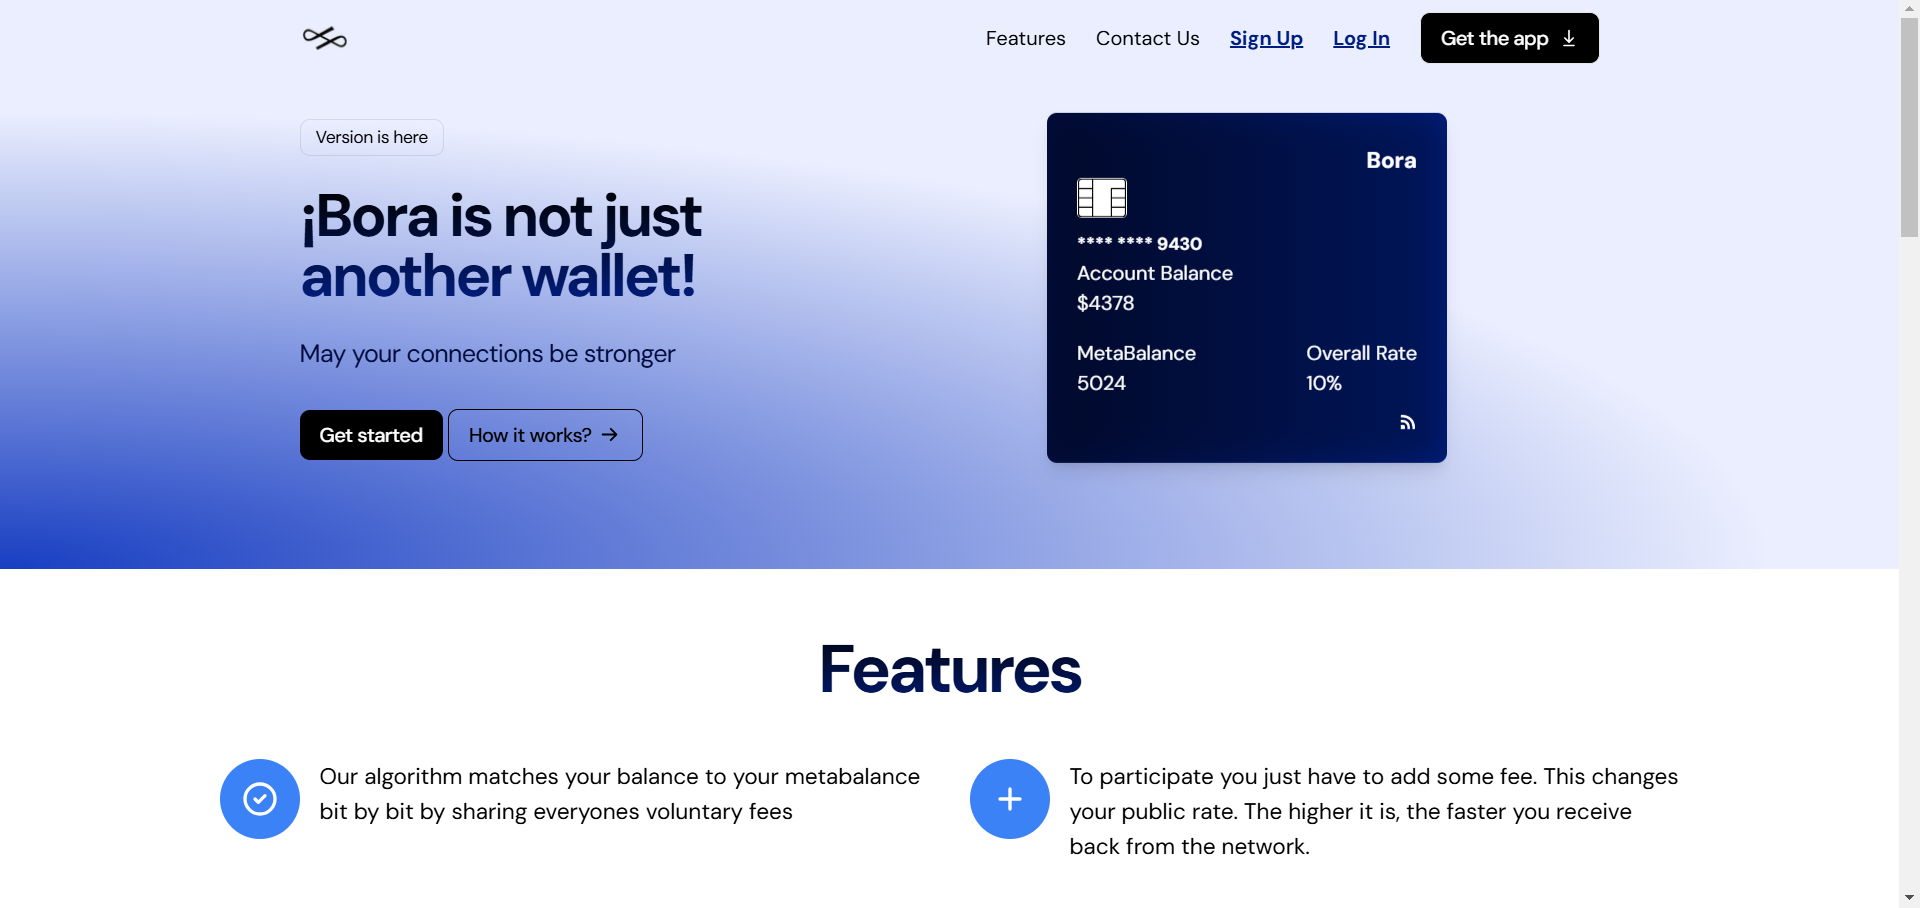
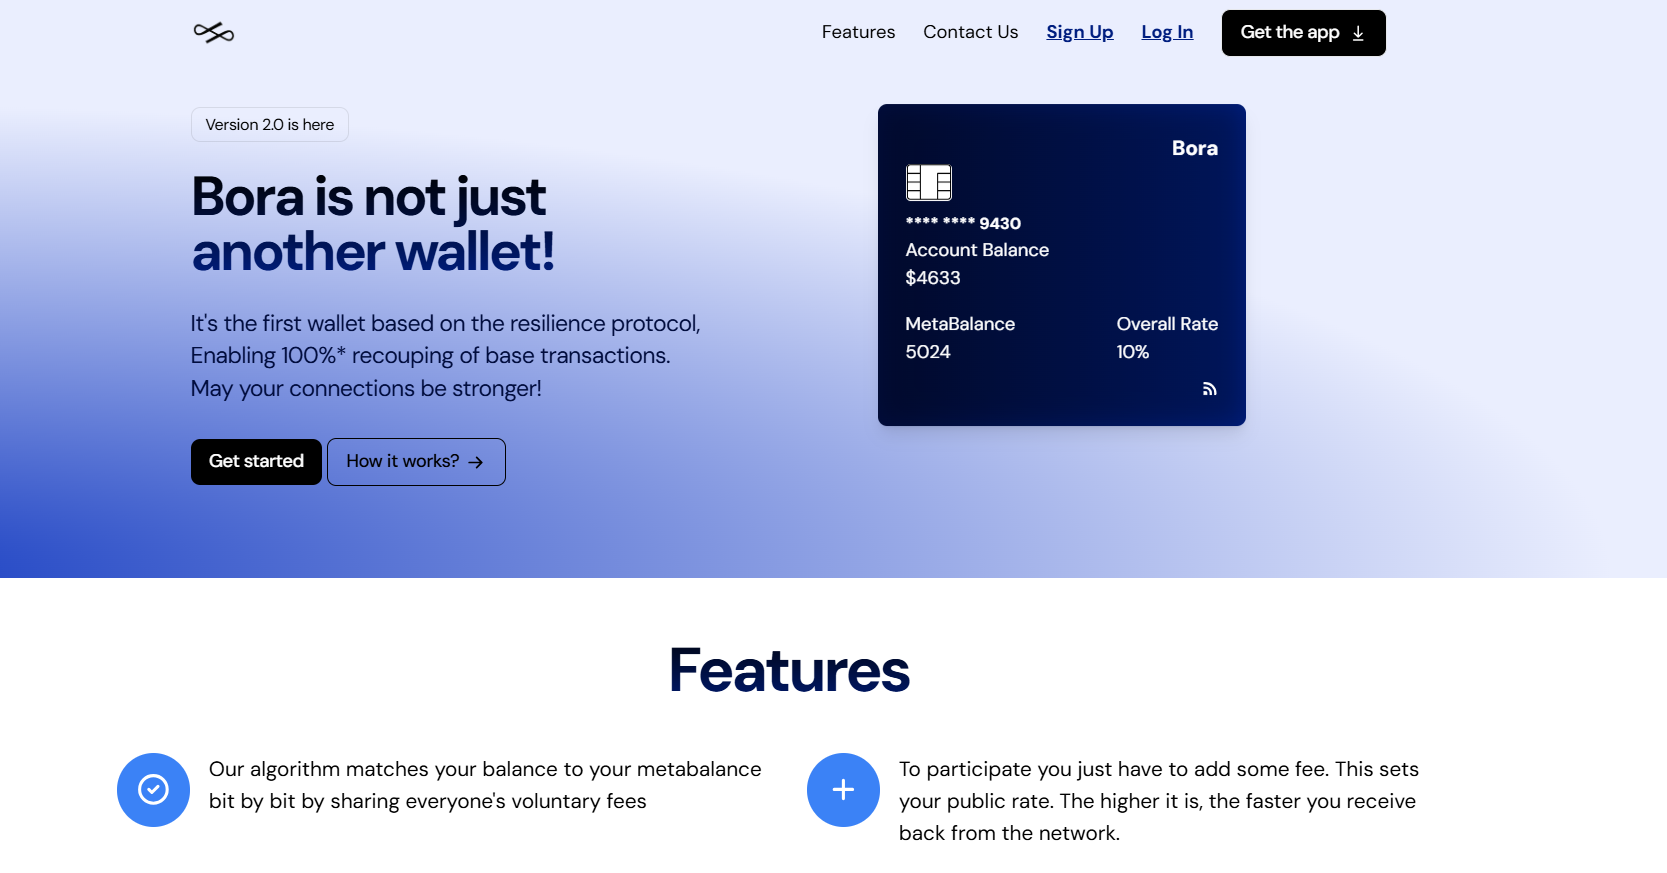
Fix texts

diff --git a/src/app/components/ContactUs.tsx b/src/app/components/ContactUs.tsx
@@ -89,45 +89,44 @@ const FormHelp: React.FC<FormHelpProps> = ({ id }) => {
         <div className="section-heading text-center">
           <h2 className="section-title mt-5 font-bold">Contact Us</h2>
         </div>
-        
+
         {/* Responsive Contact and Form section */}
         <div className="flex flex-col md:flex-row items-start mt-10 gap-10">
           {/* Contact Info */}
           <div className="md:w-1/2 p-4 flex flex-col items-start">
             <h2 className="section-subtitle text-[24px] md:text-[30px] font-semibold">
-             We’re Here to Help
+            We’re Here to Help
             </h2>
             <p className="section-description text-gray-700 text-base md:text-lg mt-4 text-left">
-             Have questions about our platform, integrations, or anything else? Our friendly team is here to answer all your questions.
-             Reach out, and we’ll get back to you as soon as possible!
+            Have questions about our platform? Our team is here to answer all your questions.
+            Reach out and we'll get back to you as soon as possible.
             </p>
 
           <div className="grid grid-cols-1 md:grid-cols-2 gap-4 mt-6">
            {/* Column 1: Email */}
           {/* <div className="flex items-center">
-           <FontAwesomeIcon icon={faEnvelope} className="mr-2 text-blue-600" />
-           <span className="text-gray-700 font-medium">resilenciabora@gmail.com</span>
+          <FontAwesomeIcon icon={faEnvelope} className="mr-2 text-blue-600" />
+          <span className="text-gray-700 font-medium">resilenciabora@gmail.com</span>
           </div> */}
 
            {/* Column 2: Country */}
           {/* <div className="flex items-center">
-           <FontAwesomeIcon icon={faGlobe} className="mr-2 text-blue-600" />
-           <span className="text-gray-700 font-medium">Colombia</span>
+          <FontAwesomeIcon icon={faGlobe} className="mr-2 text-blue-600" />
+          <span className="text-gray-700 font-medium">Colombia</span>
           </div> */}
 
            {/* Column 1: Phone */}
           {/* <div className="flex items-center">
-           <FontAwesomeIcon icon={faPhone} className="mr-2 text-blue-600" />
-           <span className="text-gray-700 font-medium">+57 123 456 7890</span>
+          <FontAwesomeIcon icon={faPhone} className="mr-2 text-blue-600" />
+          <span className="text-gray-700 font-medium">+57 123 456 7890</span>
           </div> */}
 
            {/* Column 2: Opening hours */}
           {/* <div className="flex items-center">
-           <FontAwesomeIcon icon={faClock} className="mr-2 text-blue-600" />
-           <span className="text-gray-700 font-medium">Mon-Fri: 9am - 6pm</span>
+          <FontAwesomeIcon icon={faClock} className="mr-2 text-blue-600" />
+          <span className="text-gray-700 font-medium">Mon-Fri: 9am - 6pm</span>
           </div> */}
           </div>
-      
           </div>
 
           {/* Form */}

diff --git a/src/app/dashboard/page.tsx b/src/app/dashboard/page.tsx
@@ -1,8 +1,8 @@
 "use client";
 import React, { useEffect, useState } from 'react';
 import axios from 'axios';
-import { motion } from 'framer-motion'; 
-import Chip from '@/app/public/assets/chip-credit.svg'; 
+import { motion } from 'framer-motion';
+import Chip from '@/app/public/assets/chip-credit.svg';
 import Network from '@/app/public/assets/network.svg';
 import { Header } from '@/app/components/Header';
 import { Line } from 'react-chartjs-2';
@@ -59,21 +59,21 @@ export default function Dashboard() {
   const [showDepositModal, setShowDepositModal] = useState(false);
   const [showWithdrawModal, setShowWithdrawModal] = useState(false);
   const [showModal, setShowModal] = useState(false);
-  
+
   const [formData, setFormData] = useState({
     receiverAccountNumber: "",
     amount: "",
     feeRate: "",
   });
-  
+
   const [depositData, setDepositData] = useState({
     amount: "",
   });
-  
+
   const [withdrawData, setWithdrawData] = useState({
     amount: "",
   });
-  
+
   const [isSubmitting, setIsSubmitting] = useState(false);
 
   useEffect(() => {
@@ -85,7 +85,7 @@ export default function Dashboard() {
       setLoading(false);
     }
   }, []);
-  
+
   const fetchUserData = async (userId: string) => {
     try {
       const userResponse = await axios.get(`https://backend-bora.onrender.com/user/${userId}`);
@@ -120,8 +120,8 @@ export default function Dashboard() {
     } finally {
       setLoading(false);
     }
-  };  
-  
+  };
+
   const handleShowModal = (modal: string) => {
     switch (modal) {
       case "send":
@@ -194,7 +194,7 @@ export default function Dashboard() {
       toast.success("Transaction successful");
       handleCloseModal("send");
 
-      // Update data 
+      // Update data
       const userId = localStorage.getItem("userId");
       const senderResponse = await axios.get(`https://backend-bora.onrender.com/user/${userId}`, { withCredentials: true });
       setUserData(senderResponse.data.data);
@@ -251,7 +251,7 @@ export default function Dashboard() {
     }
   };
 
-  // Withdraw Money 
+  // Withdraw Money
   const handleWithdraw = async (e: React.FormEvent) => {
     e.preventDefault();
     setIsSubmitting(true);
@@ -638,9 +638,10 @@ export default function Dashboard() {
     </div>
   </div>
 )}
+
 {/* Withdraw Money Modal */}
 {showWithdrawModal && (
-       <div className="fixed inset-0 bg-black bg-opacity-50 flex items-center justify-center z-50">
+  <div className="fixed inset-0 bg-black bg-opacity-50 flex items-center justify-center z-50">
     <div className="bg-white p-8 rounded-xl shadow-xl w-full max-w-md">
       <h2 className="text-2xl font-semibold text-gray-800 mb-6 text-center">Withdraw Money</h2>
       <div className="space-y-4">
@@ -675,7 +676,7 @@ export default function Dashboard() {
     </div>
   </div>
 )}
-  </section>
+    </section>
     </>
   );
 }

diff --git a/src/app/components/Tutorial.tsx b/src/app/components/Tutorial.tsx
@@ -37,7 +37,7 @@ export const Tutorial: React.FC<TutorialProps> = ({ id }) => {
     <section id={id} className="bg-gradient-to-b from-white to-[#D2DCFF] py-10">
       <div className="container mx-auto px-4">
         <div className="section-heading text-center mb-8">
-          <h2 className="section-title font-bold">How it works?</h2>
+          <h2 className="section-title font-bold">How to use:</h2>
         </div>
         {/* Slider */}
         <div className="flex justify-center mb-8">
@@ -49,12 +49,13 @@ export const Tutorial: React.FC<TutorialProps> = ({ id }) => {
                     <Image 
                       src={item.src} 
                       alt={`Imagen ${index + 1}`} 
-                      width={500} 
-                      height={300} 
+                      width={900} // Adjusted width for better quality
+                      height={500} // Adjusted height for better quality
+                      quality={100} // Set maximum quality
                       className="w-full h-full rounded-xl" 
                     />
                   ) : (
-                    <div className="relative w-full" style={{ paddingTop: '56.25%' }}> {/* Proporción 16:9 */}
+                    <div className="relative w-full" style={{ paddingTop: '56.25%' }}>
                       <iframe 
                         src={item.src} 
                         title={`Video ${index + 1}`} 

diff --git a/src/app/components/Hero.tsx b/src/app/components/Hero.tsx
@@ -54,13 +54,16 @@ export const Hero = () => {
         <div className="md:flex md:items-start">
           <div className="md:w-[478px]">
             <div className="text-sm inline-flex border border-[#222]/10 px-3 py-1 rounded-lg tracking-tight">
-              Version is here
+              Version 2.0 is here
             </div>
             <h1 className="text-5xl font-bold tracking-tighter bg-gradient-to-b from-black to-[#001E80] text-transparent bg-clip-text mt-6">
-              ¡Bora is not just another wallet!
+              Bora is not just another wallet!
             </h1>
             <p className="text-xl text-[#010D3E] tracking-tight mt-6">
-              May your connections be stronger
+              It's the first wallet based on the resilience protocol,
+              Enabling 100%* recouping of base transactions.
+              <br />
+              May your connections be stronger!
             </p>
             <div className="flex gap-1 items-center mt-[30px]">
               <Link href="/signup">

diff --git a/src/app/components/Feature.tsx b/src/app/components/Feature.tsx
@@ -31,7 +31,7 @@ export const Feature: React.FC<FeatureProps> = ({ id }) => {
             </div>
             <p className="text-lg">
             Our algorithm matches your balance to your metabalance bit by
-            bit by sharing everyones voluntary fees
+            bit by sharing everyone's voluntary fees
             </p>
           </div>
           <div className="flex items-start">
@@ -52,8 +52,8 @@ export const Feature: React.FC<FeatureProps> = ({ id }) => {
               </svg>
             </div>
             <p className="text-lg">To participate you just have to add some fee.
-              This changes your public rate. The higher it is,
-              the faster you receive back from the network. 
+              This sets your public rate. The higher it is,
+              the faster you receive back from the network.
             </p>
           </div>
         </div>

diff --git a/src/app/components/SignUpFree.tsx b/src/app/components/SignUpFree.tsx
@@ -27,10 +27,11 @@ export const SignUpFree = () => {
     >
       <div className="container">
         <div className="section-heading relative">
-          <h2 className="section-title">Sign Up for Free Today</h2>
+          <h2 className="section-title">Sign up to check it out!</h2>
           <p className="section-description mt-5">
           Join Bora today and experience a completely new way of banking! 
-          Sign up, deposit and start making truly resilient transactions together.
+          Sign up, deposit and start making resilient
+          transactions with your friends to test it yourself.
           </p>
           <motion.div
             style={{ translateY }}
